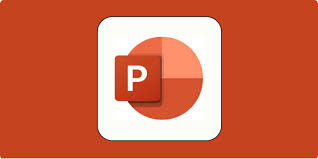
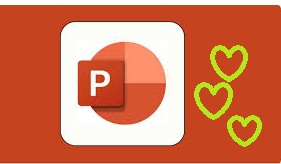
Modified all existing files
-Designed photo by adding heart shape
-Edited Readme
-Changed xlsx to csv

diff --git a/README.md b/README.md
@@ -1,2 +1,4 @@
 # Codar-Practice
 Learning Version Control Using GitHub and GitHub Desktop
+
+I cloned the repo and started working from my local machine.
